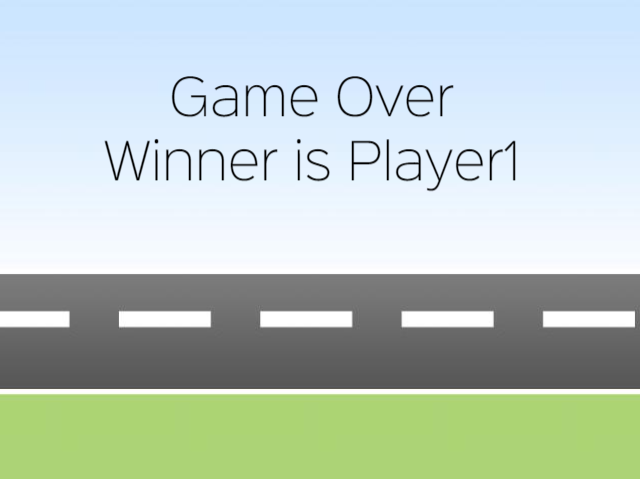
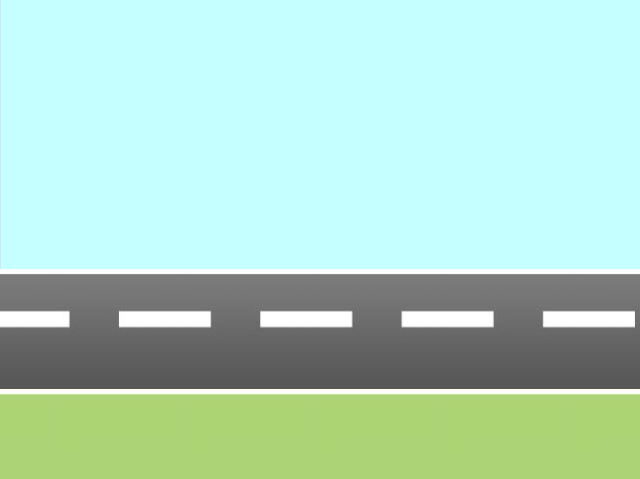
dodat ispit pobednika u winner menu

diff --git a/GameOverScreen.py b/GameOverScreen.py
@@ -1,7 +1,7 @@
 from PyQt5.QtWidgets import *
-from PyQt5.QtGui import QIcon, QPixmap, QImage, QPalette, QBrush
+from PyQt5.QtGui import QIcon, QPixmap, QImage, QPalette, QBrush, QFont
 from PyQt5.QtCore import QSize
-from PyQt5 import QtCore, QtGui, QtWidgets
+from PyQt5 import QtCore, QtGui, QtWidgets, Qt
 import sys, random
 import winsound
 class GameOverScreen(QWidget):
@@ -22,7 +22,6 @@ class GameOverScreen(QWidget):
         self.setLayout(layout)
 
 
-
     def returnHome(self, sw):
         if self.parent.turnirUToku:
             self.parent.SetGame()
@@ -31,9 +30,33 @@ class GameOverScreen(QWidget):
 
     def changeWinner(self, id, ):
         if(id == 1):
-            self.setStyleSheet("background-image: url(Slike/player2win.png)")
 
-        else:
             self.setStyleSheet("background-image: url(Slike/player1win.png)")
+
+            self.winnerName = self.parent.activePair[1]
+            self.labelA = QLabel(self)
+            self.labelA.setText("Winner is: " + self.winnerName)
+            self.labelA.setFixedWidth(500)
+            self.labelA.setFixedHeight(70)
+            self.labelA.setAlignment(QtCore.Qt.AlignCenter)
+            self.labelA.move(390, 380)
+            self.labelA.setFont(QFont("Arial", 40))
+            self.labelA.setStyleSheet("QLabel{background-color: white; color: black; font-weight: bold;}")
+            self.labelA.raise_()
+        else:
+
+            self.setStyleSheet("background-image: url(Slike/player1win.png)")
+
+            self.winnerName = self.parent.activePair[0]
+            self.labelA = QLabel(self)
+            self.labelA.setText("Winner is: " + self.winnerName)
+            self.labelA.setFixedWidth(500)
+            self.labelA.setFixedHeight(70)
+            self.labelA.setAlignment(QtCore.Qt.AlignCenter)
+            self.labelA.move(390, 380)
+            self.labelA.setFont(QFont("Arial", 40))
+            self.labelA.setStyleSheet("QLabel{background-color: white; color: black; font-weight: bold;}")
+            self.labelA.raise_()
+
         name = 'Sound/GameOver.wav'
         winsound.PlaySound(name, winsound.SND_ASYNC)

diff --git a/menu.py b/menu.py
@@ -26,6 +26,7 @@ class UI(QtWidgets.QWidget):
         #self.pairstest.append(self.pairtest)
 
         self.turnirUToku = False
+        self.activePair = None
 
         self.MenuUI()
         self.gameOverScreen = GameOverScreen(self)
@@ -40,6 +41,7 @@ class UI(QtWidgets.QWidget):
 
     def SetGame(self):
         self.turnirUToku = True
+        self.activePair = self.pairs[self.currentPlayer]
         self.i = self.i +1
         print("Set game pair: " + str(self.pairs[self.currentPlayer]) )
 
@@ -134,11 +136,11 @@ class UI(QtWidgets.QWidget):
     def makeBracket(self):
         self.pairs = []
         if self.igraci == 2:
-            self.prayers = ["igrac1", "igrac2"]
+            self.prayers = ["Igrac 1", "Igrac 2"]
         elif self.igraci == 4:
-            self.prayers = ["igrac1", "igrac2", "igrac3", "igrac4"]
+            self.prayers = ["Igrac 1", "Igrac 2", "Igrac 3", "Igrac 4"]
         elif self.igraci == 8:
-            self.prayers = ["igrac1", "igrac2", "igrac3", "igrac4", "igrac5", "igrac6", "igrac7", "igrac8"]
+            self.prayers = ["Igrac 1", "Igrac 2", "Igrac 3", "Igrac 4", "Igrac 5", "Igrac 6", "Igrac 7", "Igrac 8"]
 
         print("--------MAKE Bracket-----------")
         self.lastChoice = self.igraci

diff --git a/Igrica.py b/Igrica.py
@@ -14,7 +14,6 @@ class CrazyCars(QMainWindow, UI):
         self.initUI()
         self.btn1.clicked.connect(self.openGame)
         self.btn2.clicked.connect(self.openInstructions)
- #       self.btn3.clicked.connect(self.openHighScore)
 
 
     def initUI(self):
@@ -36,6 +35,7 @@ class CrazyCars(QMainWindow, UI):
 
         if reply == QMessageBox.Yes:
             event.accept()
+
         else:
             event.ignore()
 
@@ -45,8 +45,6 @@ class CrazyCars(QMainWindow, UI):
     def openInstructions(self):
         self.StackedWidgets.setCurrentIndex(1)
 
-    def openHighScore(self):
-        sys.exit()
 
 if __name__=='__main__':
     app = QApplication(sys.argv)
